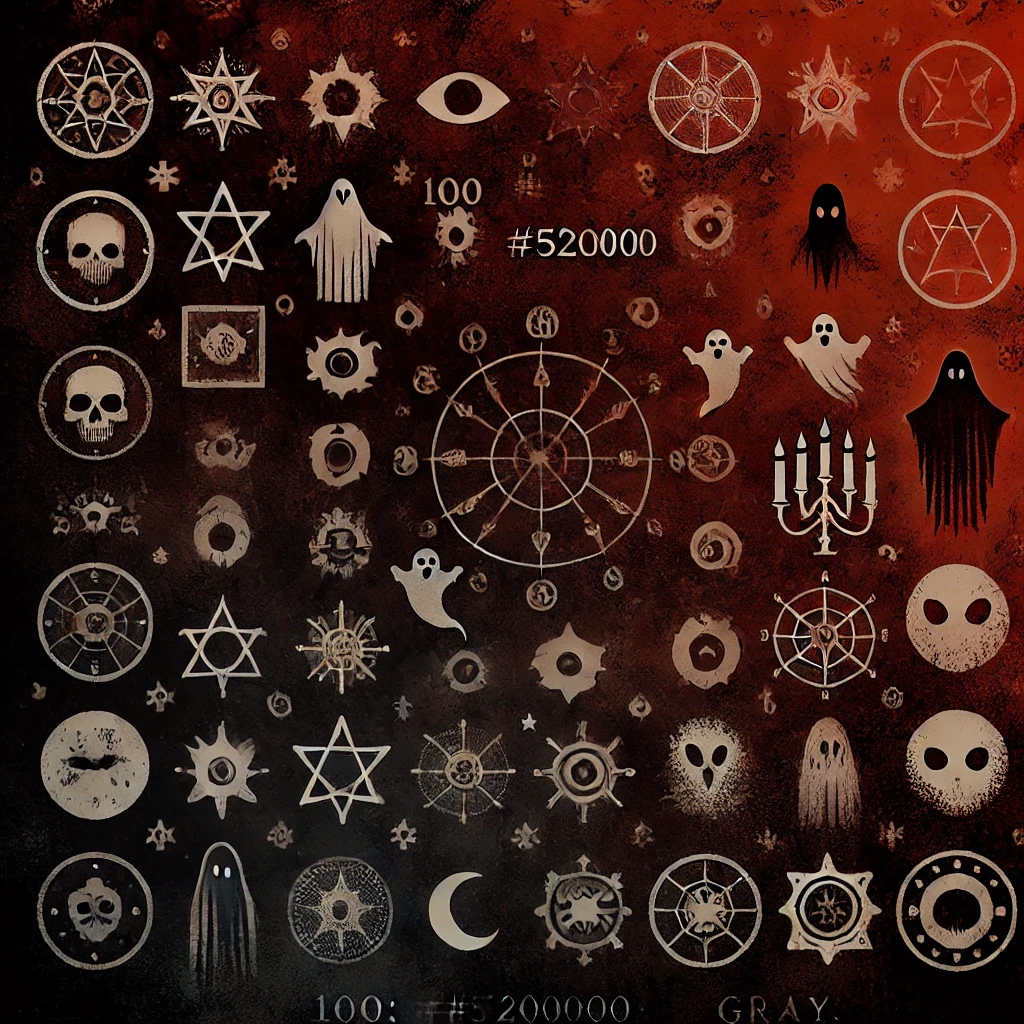
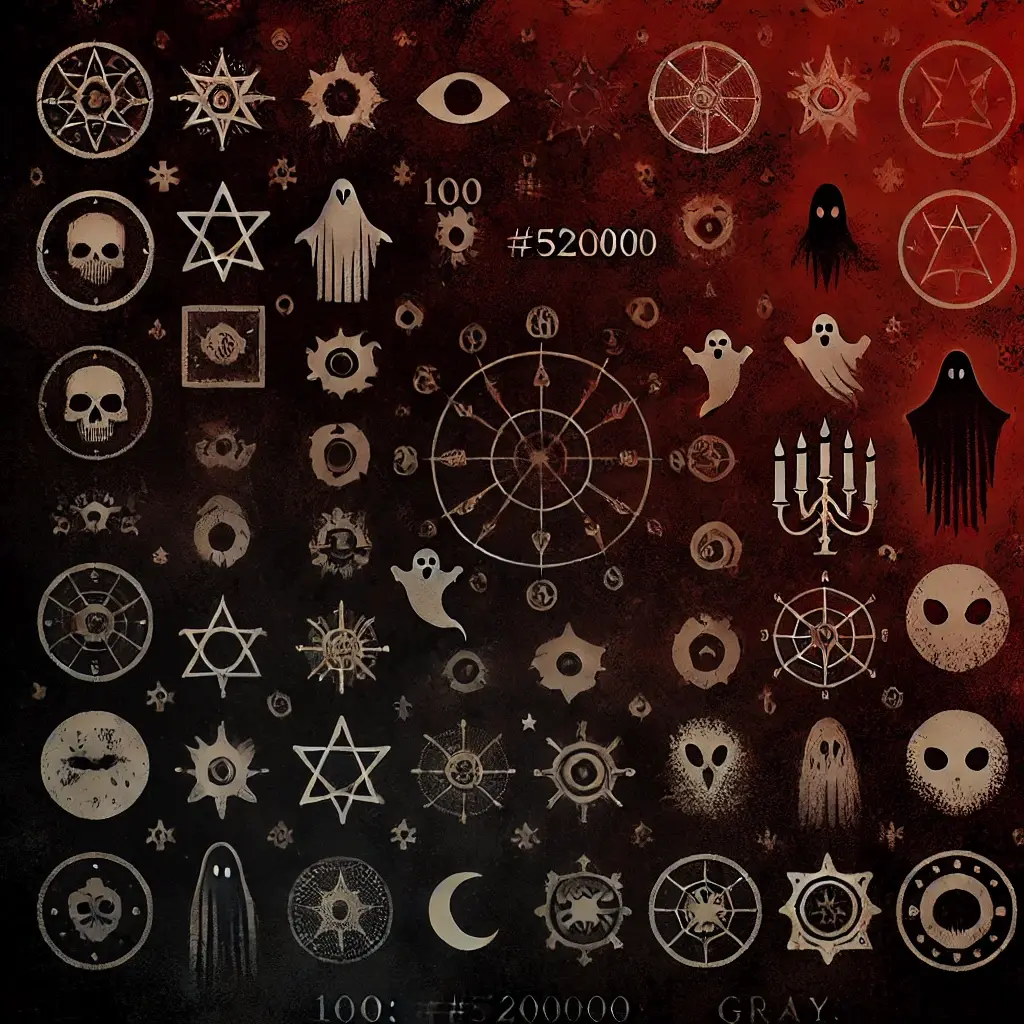
feat: optimized images

diff --git a/src/components/layout/index.tsx b/src/components/layout/index.tsx
@@ -14,7 +14,7 @@ const Layaut = ({ children }: Prop) => {
       height='100%'
       overflow="hidden"
       position="relative"
-      backgroundImage="/assets/bg2.png"
+      backgroundImage="/assets/bg-spectral.webp"
       backgroundPosition="center"
       backgroundRepeat="no-repeat"
       backgroundSize="cover"
